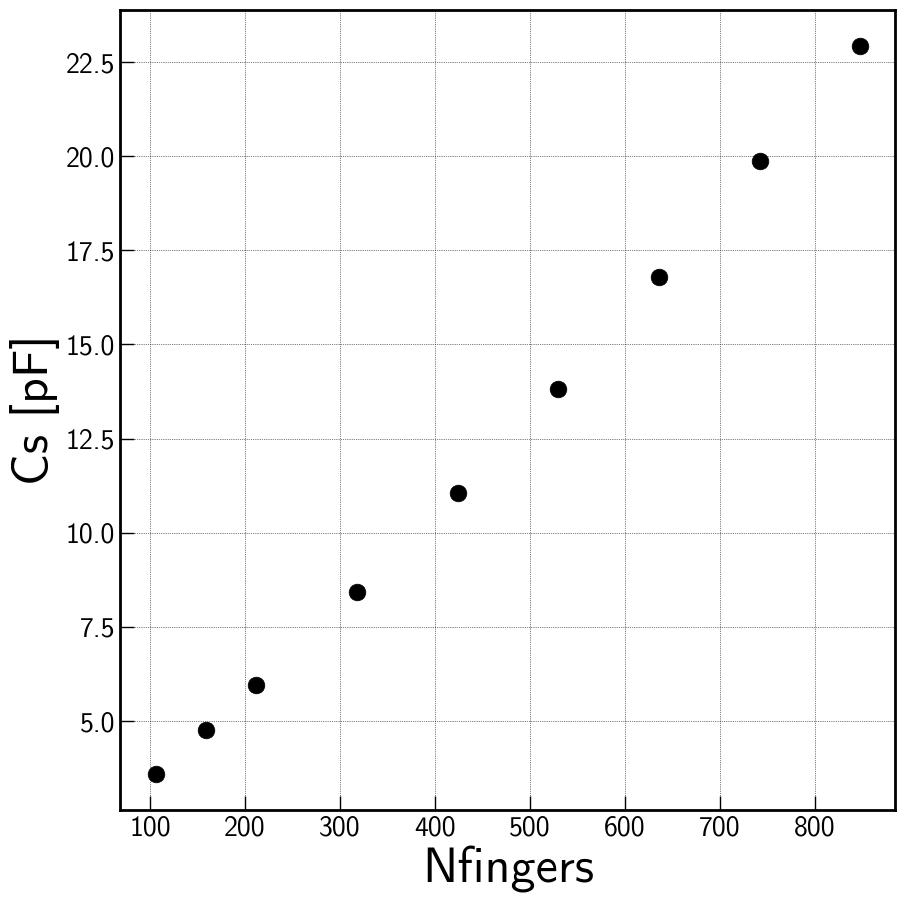
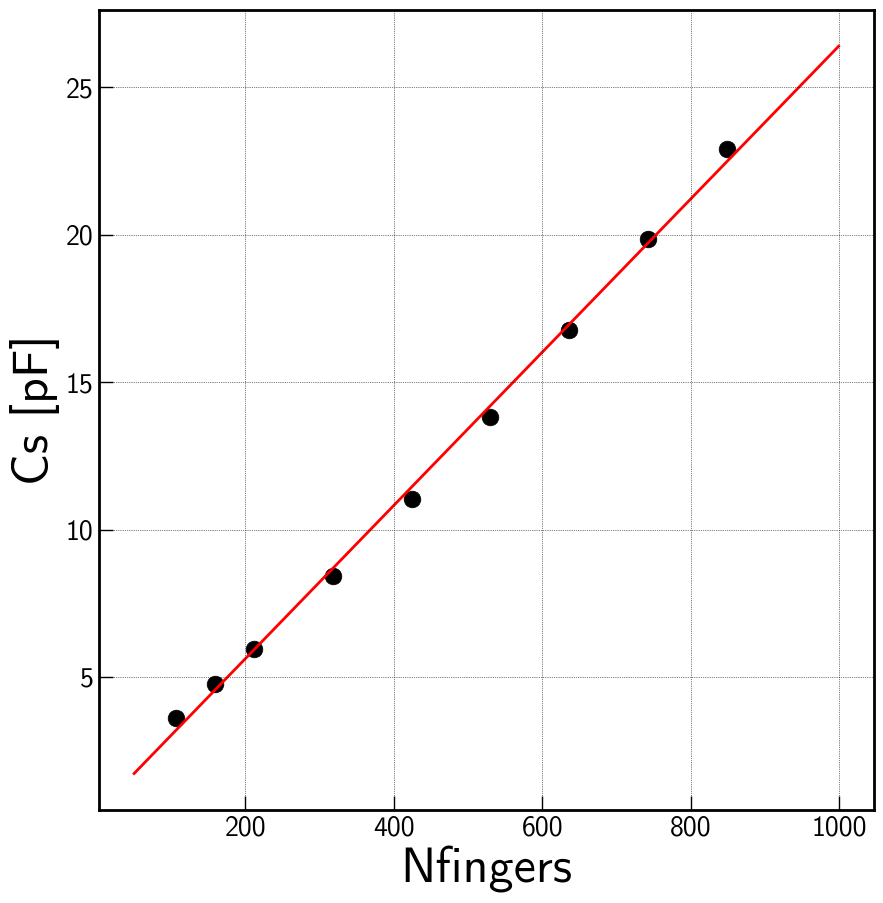
linear fit for the capacitance

diff --git a/code/TKIDModule_extractQcsfromfullresosims.py b/code/TKIDModule_extractQcsfromfullresosims.py
@@ -783,20 +783,19 @@ if __name__=="__main__":
     plt.savefig('extractedQc_vs_frequency.png')
     #plt.show()
 
-    p = np.polyfit(Nfingers, Cs/pF, 1)
-    print (p)
-    Cfine = np.polyval(p, Nfine)
     plt.figure()
     plt.plot(frs, Cs/pF, 'ko', ls='None', ms=12)
-    plt.plot(Nfine, Cfine, 'r-')
     plt.grid()
     plt.xlabel('fr [MHz]')
     plt.ylabel('Cs [pF]')
     plt.savefig('Cs_vs_frequency.png')
 
+    p = np.polyfit(Nfingers, Cs/pF, 1)
+    print (p)
+    Cfine = np.polyval(p, Nfine)
     plt.figure()
     plt.plot(Nfingers, Cs/pF, 'ko', ls='None', ms=12)
-    #plt.semilogy(Nfine, Qcfine, 'r-')
+    plt.plot(Nfine, Cfine, 'r-')
     plt.grid()
     plt.xlabel('Nfingers')
     plt.ylabel('Cs [pF]')
